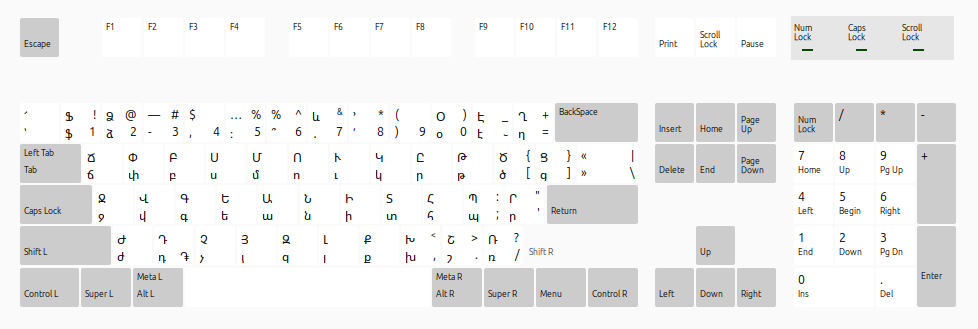
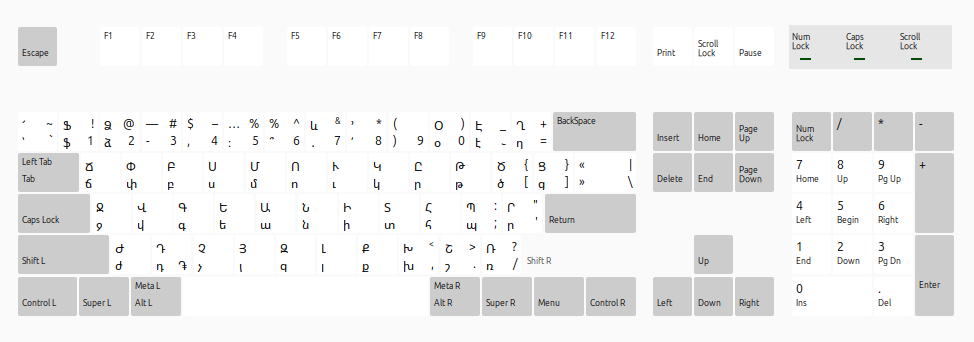
dashes added

diff --git a/README.md b/README.md
@@ -8,7 +8,7 @@ This repository contains all Heghine's official custom keyboard layouts that I'v
 
 ## Armenian ՄՈՒԿԸ/ԱՆԻ
 
-I've edited the Armenian ՄՈՒԿԸ/ԱՆԻ keyboard layout on Linux by adding all the missing symbols from the QWERTY layout, and add the dram sign on the Դ letter when you hold the Alt key.
+I've edited the Armenian ՄՈՒԿԸ/ԱՆԻ keyboard layout on Linux by adding all the missing symbols from the QWERTY layout plus em dash and em dash, and add the dram sign on the Դ letter when you hold the Alt key.
 
 ![ՄՈՒԿԸ/ԱՆԻ Keyboard Layout](./muky-ani.png)
 
@@ -17,7 +17,7 @@ Now I can type the word "ինչ-որ" without switching the keyboard.
 
 ## Russian (Typewriter)
 
-I've edited the Russian (Typewriter) keyboard layout on Linux by adding the ruble sign on the Р letter when you hold the Alt key.
+I've edited the Russian (Typewriter) keyboard layout on Linux by adding the ruble sign on the Р letter when you hold the Alt key. And em dash and em dash in the 2 key.
 
 ![Russian (Typewriter) Keyboard Layout](./russian-typewriter.png)
 
